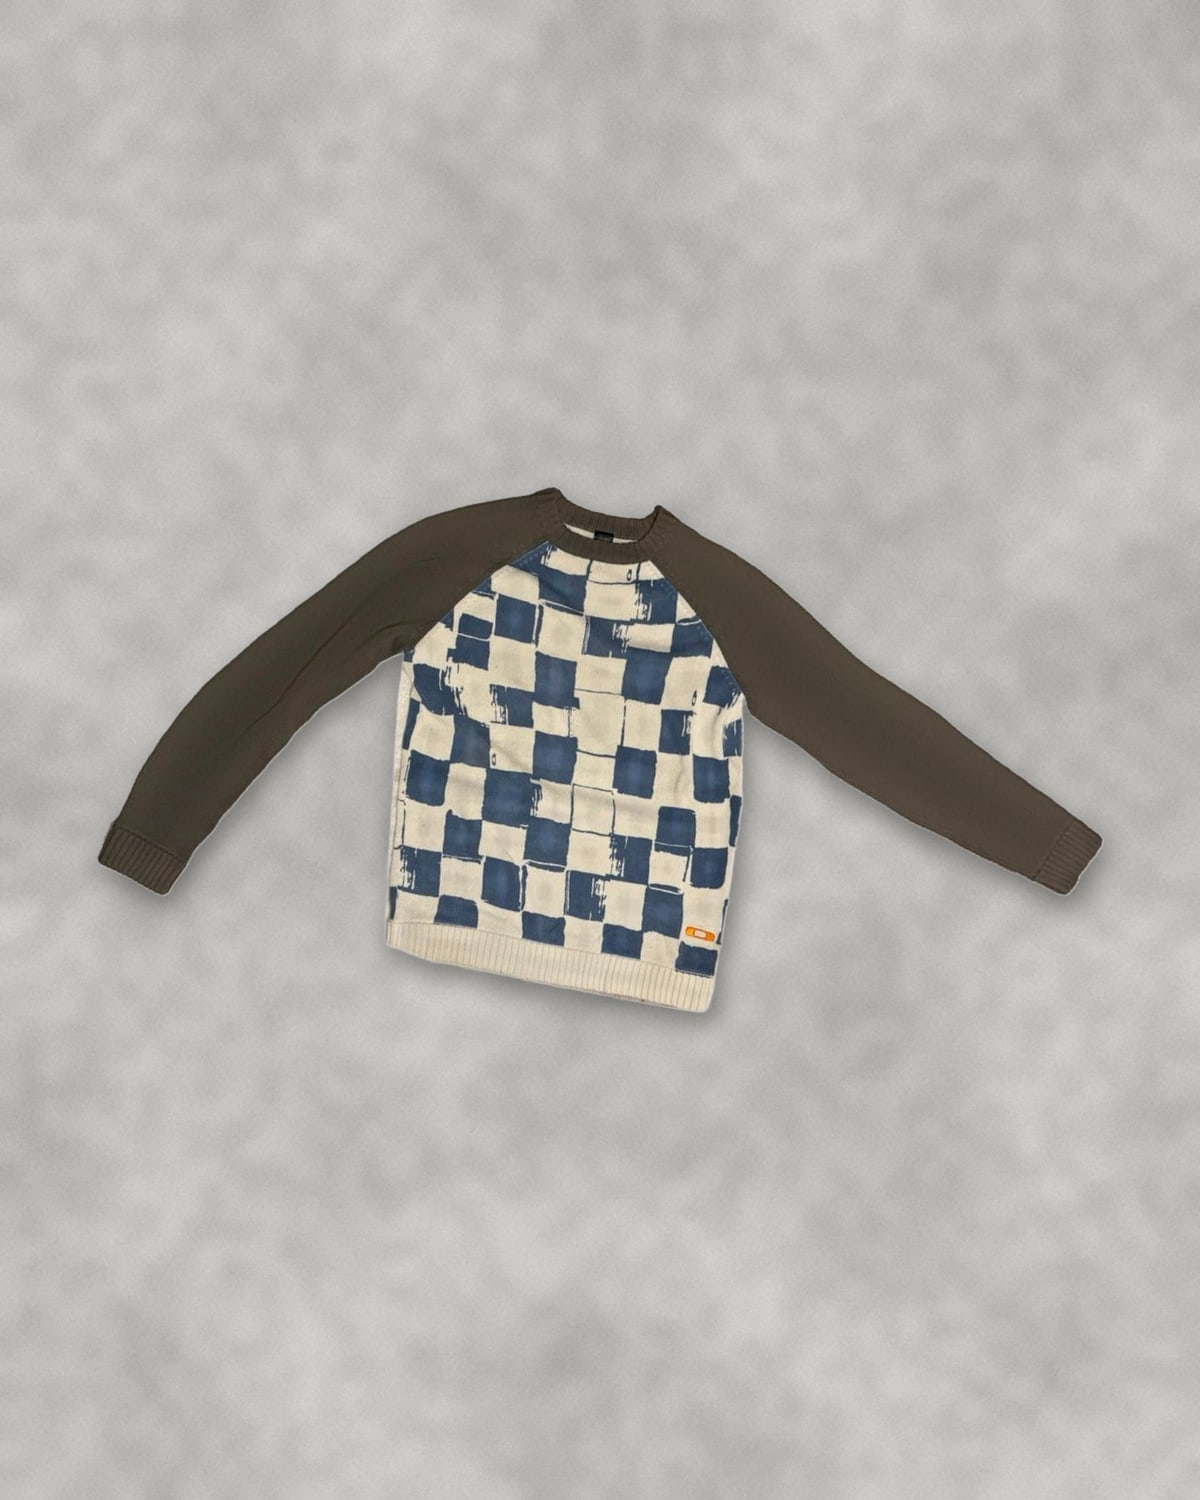
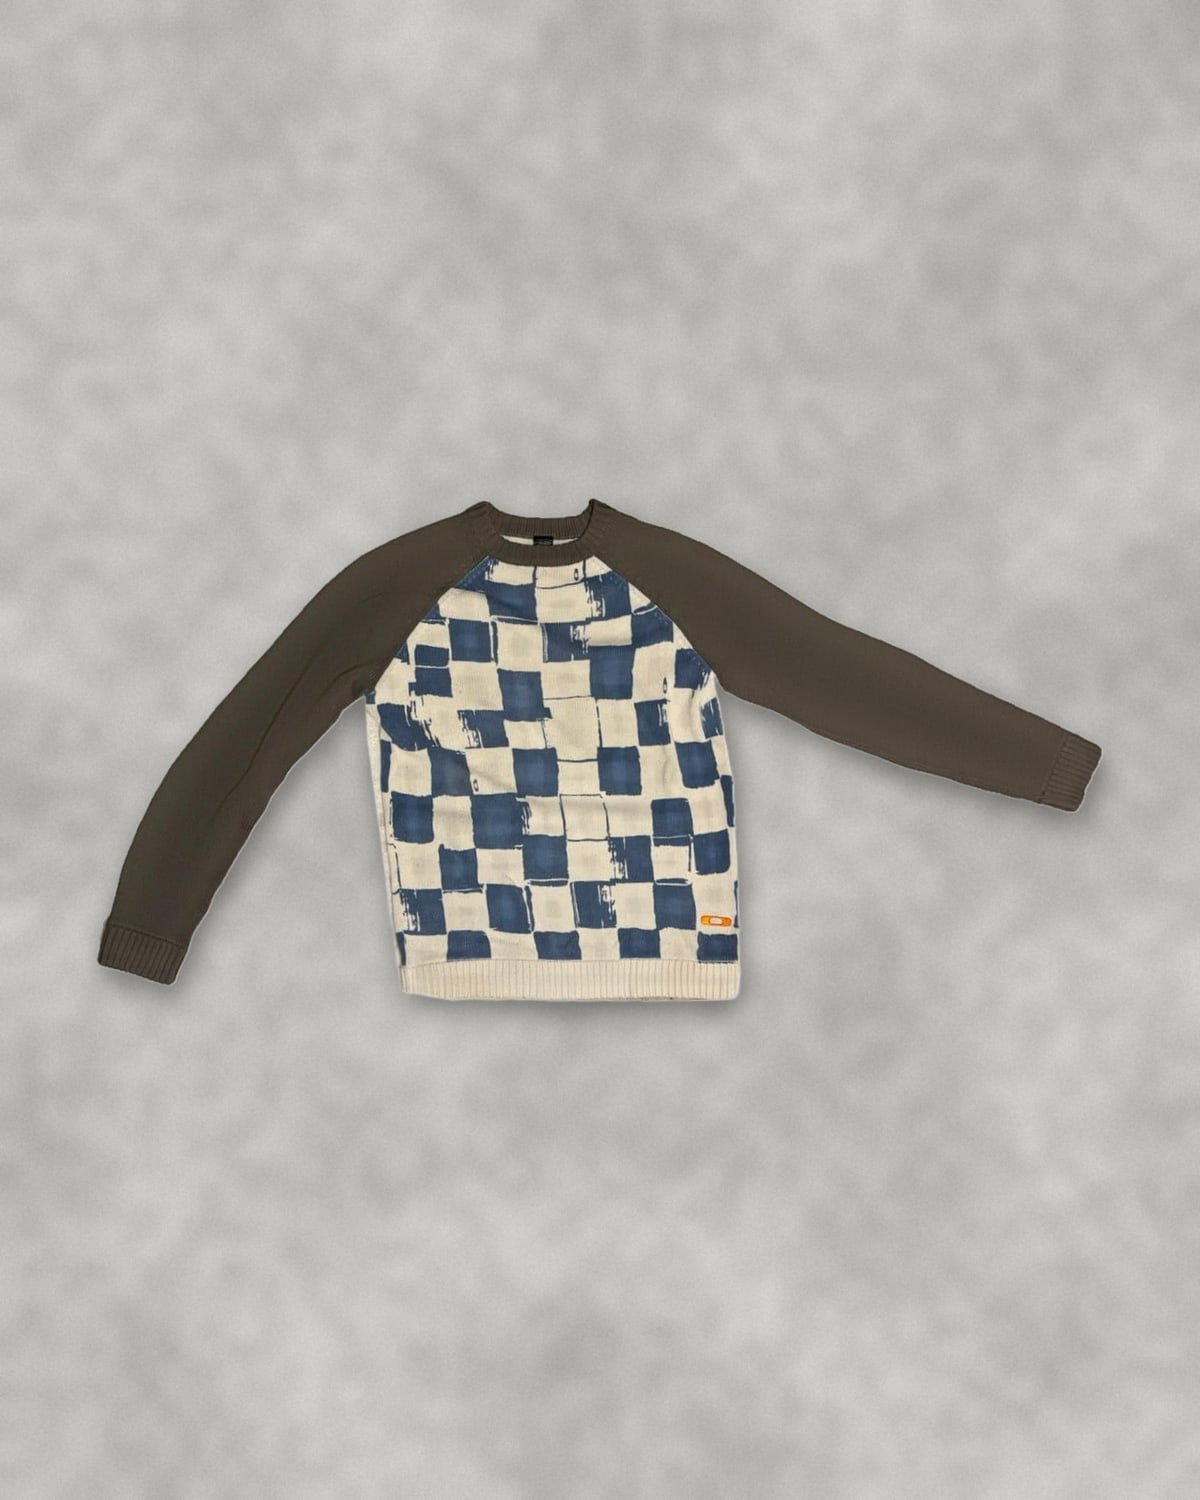
Photos: pieces upright by symmetry, Oakley sweater levelled by its hem (--level); gentle ironing for all (stronger setting left streaks); hero: surf-style photos (boardshorts, surf tee, wetsuits; Pexels)

Changed region(s): [[0.0617, 0.3067, 0.925, 0.7053], [0.6167, 0.368, 0.6475, 0.3987], [0.2158, 0.3987, 0.2467, 0.4293]]

diff --git a/website/OWNER-ANLEITUNG.md b/website/OWNER-ANLEITUNG.md
@@ -160,15 +160,10 @@ npm run photos:background -- 0013
 
 - Farben Navy / Off-White, Überschriften in schmalen Grossbuchstaben, eckige Buttons. Das alte Design (Petrol / Sand) ist auf dem Branch **save-before-syds-look** gespeichert. Zurück wechseln: Claude sagen «stell das Design von save-before-syds-look wieder her».
 - **Model-Bilder** sind ausgeschaltet: `showModelPhotos` in `src/settings/site.json` auf `true` stellen, dann erscheinen sie wieder (die Dateien sind noch da).
-- **Fotos der Pieces** liegen alle auf demselben hellen Betonboden und sind «gebügelt» (Falten weicher). Für ein neues Piece: `npm run photos:background -- 0013 --flatlay --iron`. Nahaufnahmen von Etiketten bleiben unverändert und werden ausgeblendet (`showLabelPhotos` in `site.json`). Originale in `raw-docs/photo-originals/`. Die Fotos ohne Bügeln sind auf dem Branch **save-before-ironing** gespeichert.
+- **Fotos der Pieces** liegen alle auf demselben hellen Betonboden und sind «gebügelt» (Falten weicher). Für ein neues Piece: `npm run photos:background -- 0013 --flatlay --iron`. Nahaufnahmen von Etiketten bleiben unverändert und werden ausgeblendet (`showLabelPhotos` in `site.json`). Originale in `raw-docs/photo-originals/`. Die Fotos ohne Bügeln sind auf dem Branch **save-before-ironing** gespeichert. Alle Pieces werden automatisch gerade ausgerichtet. Liegt ein Pullover mit schrägen Ärmeln trotzdem schief, zusätzlich `--level` anhängen (richtet den unteren Saum waagrecht aus).
 
 ## Hero (Startbild)
 
-Das grosse Bild oben auf der New-Drop-Seite zeigt deine eigenen Pieces als Flat-Lay (Vorder- und Rückseiten). Nach neuen Pieces im Ordner `website`:
+Das grosse Slider-Bild oben zeigt Surf-Fotos (Boardshorts, Surf-Shirts, Neopren) von Pexels, frei für kommerzielle Nutzung. Quellen in `src/assets/hero/CREDITS.md`. Bilder austauschen: Dateien in `src/assets/hero/` ersetzen (nur eigene oder lizenzfreie Fotos), Liste in CREDITS.md nachführen.
 
-```
-npm run photos:background -- --haul src/assets/hero/1-haul-front.jpg
-npm run photos:background -- --haul src/assets/hero/2-haul-back.jpg --side back
-```
-
-Danach committen und pushen. Alle Pieces werden dabei automatisch gerade (90°) ausgerichtet.
+Ein Flat-Lay deiner eigenen Pieces als Bild: `npm run photos:background -- --haul src/assets/hero/7-haul.jpg` (mit `--side back` die Rückseiten).

diff --git a/website/src/assets/hero/CREDITS.md b/website/src/assets/hero/CREDITS.md
@@ -1,13 +1,23 @@
-# Hero photos: sources
+# Hero photos: sources and licences
 
-Since 24 November 2026 the hero shows the shop's own pieces: one big flat-lay of all available pieces (front views and
-back views), made from the owner's own photos with the photo tool. No outside licences involved.
+Surf style: people in boardshorts, surf tees and wetsuits (not pieces from the shop). All from Pexels, under the Pexels
+License (free for commercial use, editing allowed, no credit required; not allowed: selling unaltered copies, implying
+that people shown endorse the shop). https://www.pexels.com/license/  Downloaded on 24 November 2026.
 
-    npm run photos:background -- --haul src/assets/hero/1-haul-front.jpg
-    npm run photos:background -- --haul src/assets/hero/2-haul-back.jpg --side back
+| File | Photo | Photographer (Pexels user) |
+|---|---|---|
+| 1-to-the-beach.jpg | https://www.pexels.com/photo/man-holding-surfboard-while-walking-to-the-beach-3202205/ | jonathanborba |
+| 2-boardshorts.jpg | https://www.pexels.com/photo/shirtless-man-with-surfboard-running-towards-water-19613293/ | jonathanborba |
+| 3-riding.jpg | https://www.pexels.com/photo/a-surfer-riding-a-wave-7062912/ | alohaphotostudio |
+| 4-green-board.jpg | https://www.pexels.com/photo/confident-man-in-swimsuit-carrying-surfboard-in-town-6149523/ | alohaphotostudio |
+| 5-surf-tee.jpg | https://www.pexels.com/photo/man-in-black-t-shirt-and-orange-shorts-carrying-white-surfboard-4318989/ | jess-vide |
+| 6-wetsuits.jpg | https://www.pexels.com/photo/people-carrying-surfboards-on-the-beach-7659108/ | kampus |
 
-Run both again after adding new pieces, then commit and push. Earlier hero photos (Pexels surf shops and clothing piles)
-are in the git history.
+Not possible: photos of real surfers such as Andy Irons or of brand campaigns (copyright and personality rights).
+Own photos of vintage pieces you own are fine.
+
+The flat-lay of the shop's own pieces can be made again any time with
+`npm run photos:background -- --haul src/assets/hero/<name>.jpg` (add `--side back` for the backs).
 
 The hero slider (src/pages/[...lang]/new.astro) shows every image in this folder, sorted by file name.
-Only use photos you took yourself or have a licence for.
+Only use photos you took yourself or have a licence for, and add them to this list.
